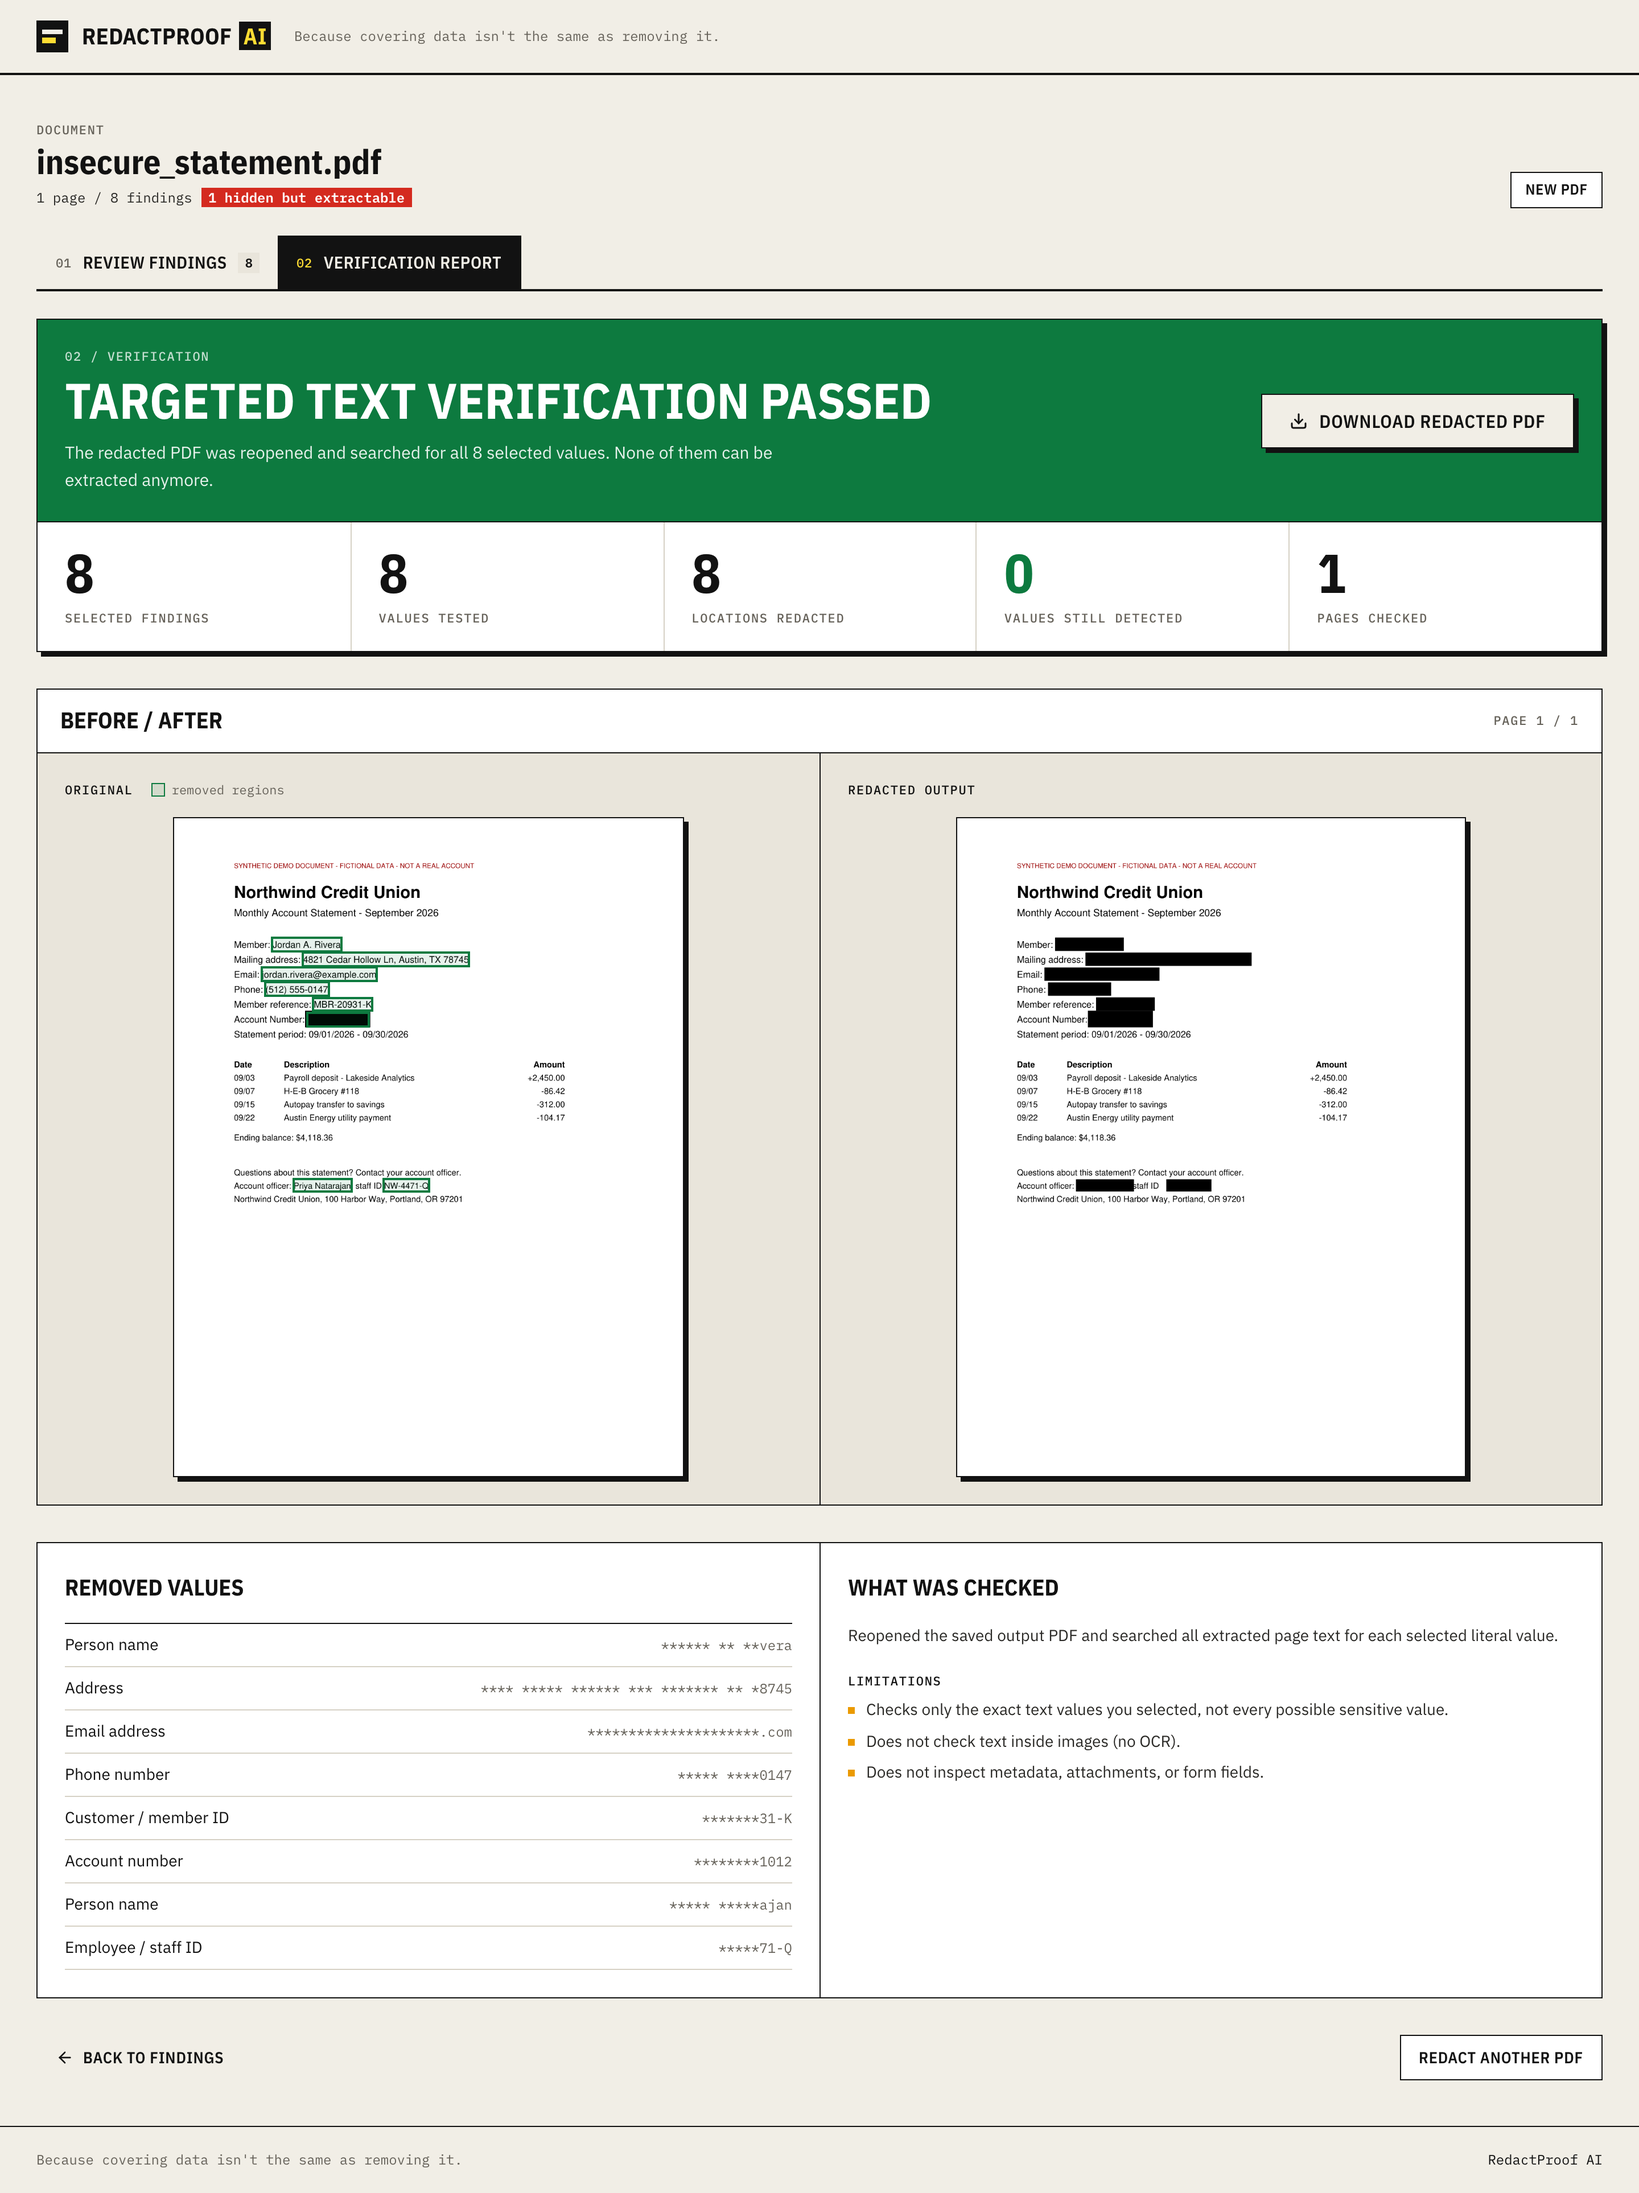
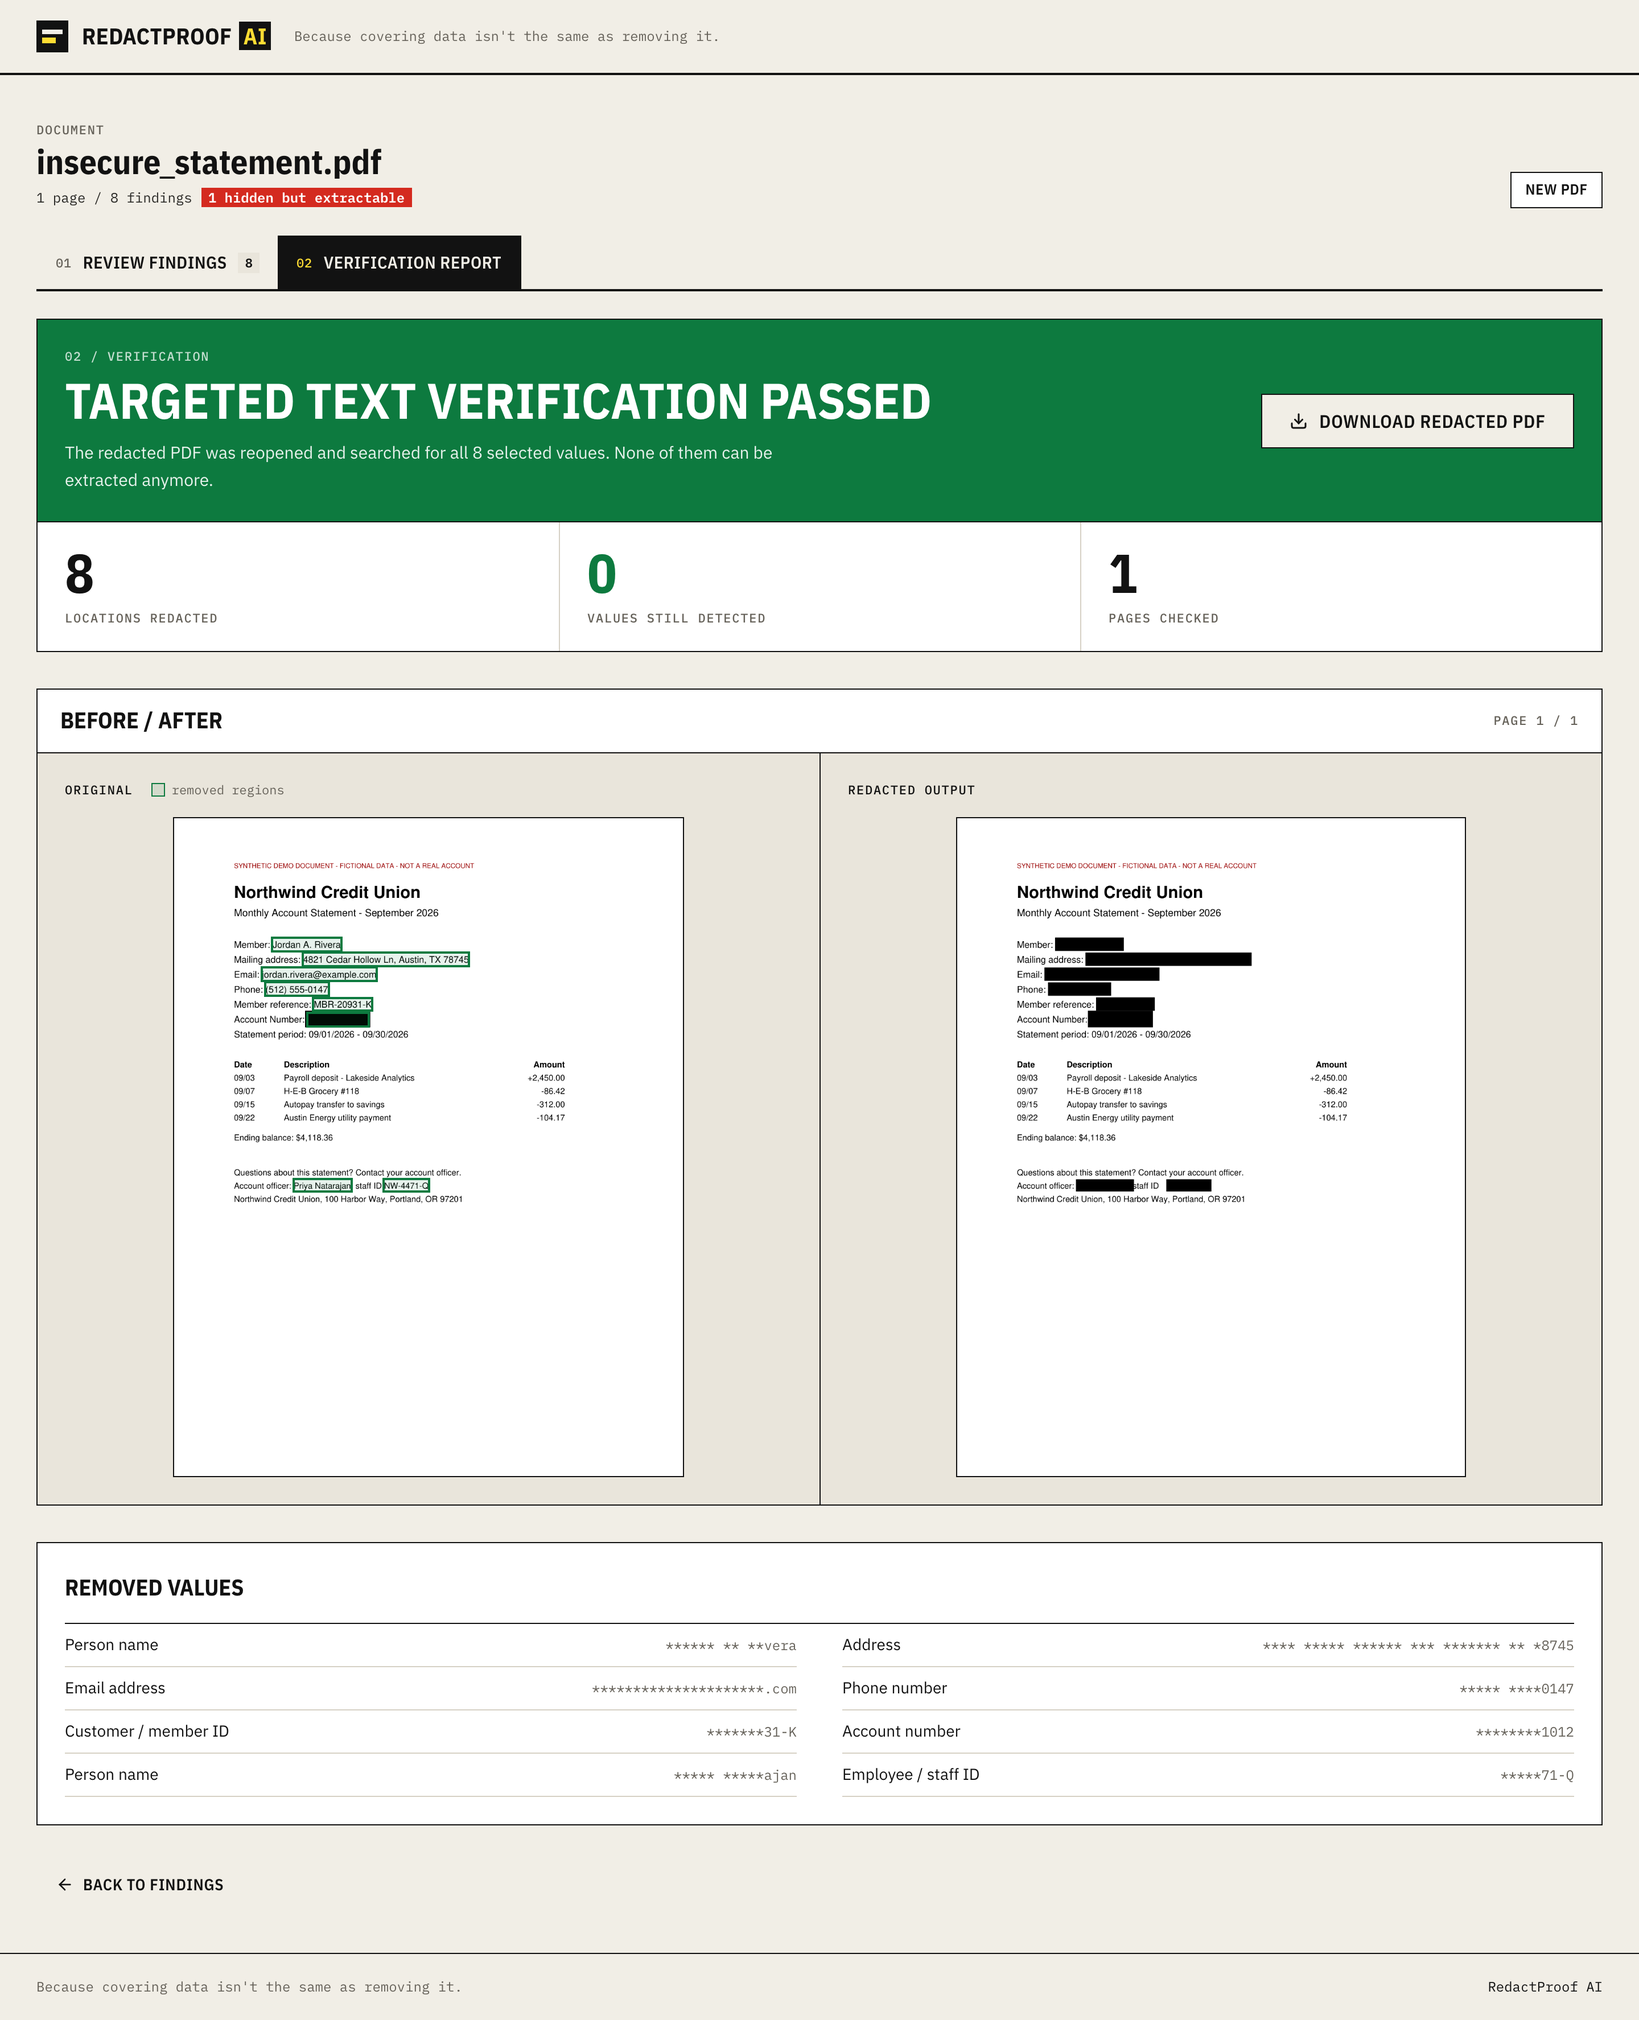
Simplify the verification report and remove drop shadows
- Remove the "What was checked" section, the "Redact another PDF" button,
  and the Selected findings / Values tested stats
- Removed values now spans the full width in two columns
- Remove all drop shadows (page previews, drop zone, report, download button)

diff --git a/frontend/src/components/VerificationReport.tsx b/frontend/src/components/VerificationReport.tsx
@@ -11,10 +11,9 @@ interface VerificationReportProps {
   page: number
   onPageChange: (page: number) => void
   onBack: () => void
-  onStartOver: () => void
 }
 
-export function VerificationReport({ analysis, result, page, onPageChange, onBack, onStartOver }: VerificationReportProps) {
+export function VerificationReport({ analysis, result, page, onPageChange, onBack }: VerificationReportProps) {
   const v = result.verification
   const passed = v.status === 'passed'
   const byId = new Map(analysis.findings.map((f) => [f.id, f]))
@@ -22,8 +21,6 @@ export function VerificationReport({ analysis, result, page, onPageChange, onBac
   const canDownload = !USE_MOCK && result.download_url !== ''
 
   const stats: [string, number, string?][] = [
-    ['Selected findings', v.selected_findings],
-    ['Values tested', v.values_tested],
     ['Locations redacted', v.locations_redacted],
     ['Values still detected', v.values_still_detected, v.values_still_detected > 0 ? 'text-danger' : 'text-success'],
     ['Pages checked', v.pages_checked],
@@ -31,7 +28,7 @@ export function VerificationReport({ analysis, result, page, onPageChange, onBac
 
   return (
     <div className="space-y-8">
-      <section aria-label="Verification status" className="border-[1.5px] border-ink bg-surface shadow-hard">
+      <section aria-label="Verification status" className="border-[1.5px] border-ink bg-surface">
         <div className={cx('flex flex-col gap-6 px-6 py-6 md:flex-row md:items-center md:justify-between', passed ? 'bg-success text-white' : 'bg-danger text-white')}>
           <div role={passed ? 'status' : 'alert'}>
             <p className="tag text-white/75">02 / Verification</p>
@@ -54,7 +51,7 @@ export function VerificationReport({ analysis, result, page, onPageChange, onBac
                 download
                 className={cx(
                   'inline-flex h-12 items-center justify-center gap-2.5 border-[1.5px] px-6 font-display text-[16px] font-semibold tracking-[0.03em] uppercase transition-colors',
-                  passed ? 'border-ink bg-paper text-ink shadow-hard hover:bg-marker' : 'border-white bg-transparent text-white hover:bg-white/15',
+                  passed ? 'border-ink bg-paper text-ink hover:bg-marker' : 'border-white bg-transparent text-white hover:bg-white/15',
                 )}
               >
                 <Download className="size-4" strokeWidth={2.25} aria-hidden />
@@ -81,9 +78,9 @@ export function VerificationReport({ analysis, result, page, onPageChange, onBac
           </ul>
         )}
 
-        <dl className="grid grid-cols-2 border-t-[1.5px] border-ink sm:grid-cols-5">
+        <dl className="grid border-t-[1.5px] border-ink sm:grid-cols-3">
           {stats.map(([label, value, tone], i) => (
-            <div key={label} className={cx('flex flex-col-reverse px-6 py-5', i > 0 && 'sm:border-l sm:border-line', 'max-sm:border-b max-sm:border-line')}>
+            <div key={label} className={cx('flex flex-col-reverse px-6 py-5', i > 0 && 'border-line max-sm:border-t sm:border-l')}>
               <dt className="tag mt-2 text-muted">{label}</dt>
               <dd className={cx('font-display text-[48px] leading-none font-bold tabular-nums', tone ?? 'text-ink')}>{value}</dd>
             </div>
@@ -93,10 +90,10 @@ export function VerificationReport({ analysis, result, page, onPageChange, onBac
 
       <BeforeAfterViewer analysis={analysis} result={result} page={page} onPageChange={onPageChange} />
 
-      <div className="grid border-[1.5px] border-ink bg-surface lg:grid-cols-2">
+      <div className="panel">
         <section aria-label="Removed values" className="p-6">
           <h3 className="font-display text-[20px] font-bold text-ink uppercase">Removed values</h3>
-          <ul className="mt-4 border-t-[1.5px] border-ink">
+          <ul className="mt-4 grid border-t-[1.5px] border-ink md:grid-cols-2 md:gap-x-10">
             {redacted.map((f) => (
               <li key={f.id} className="flex items-center justify-between gap-2 border-b border-line py-2 text-[14px]">
                 <span className="truncate text-ink">{TYPE_LABELS[f.type]}</span>
@@ -109,27 +106,11 @@ export function VerificationReport({ analysis, result, page, onPageChange, onBac
           </ul>
         </section>
 
-        <section aria-label="Verification method and limitations" className="border-ink p-6 max-lg:border-t-[1.5px] lg:border-l-[1.5px]">
-          <h3 className="font-display text-[20px] font-bold text-ink uppercase">What was checked</h3>
-          <p className="mt-4 text-[14px] leading-relaxed text-body">{v.method}</p>
-          <h4 className="tag mt-5 text-ink">Limitations</h4>
-          <ul className="mt-2 space-y-2 text-[14px] leading-snug text-body">
-            {v.limitations.map((l) => (
-              <li key={l} className="flex gap-2.5">
-                <span className="mt-[7px] size-1.5 shrink-0 bg-warning" aria-hidden />
-                {l}
-              </li>
-            ))}
-          </ul>
-        </section>
       </div>
 
-      <div className="flex flex-wrap justify-between gap-3">
+      <div>
         <Button variant="ghost" onClick={onBack} icon={<ArrowLeft className="size-4" aria-hidden />}>
           Back to findings
-        </Button>
-        <Button variant="secondary" onClick={onStartOver}>
-          Redact another PDF
         </Button>
       </div>
     </div>

diff --git a/frontend/src/components/DocumentViewer.tsx b/frontend/src/components/DocumentViewer.tsx
@@ -42,10 +42,10 @@ export function DocumentViewer({
 
   return (
     <div
-      className="relative mx-auto overflow-hidden border-[1.5px] border-ink bg-white shadow-hard"
+      className="relative mx-auto overflow-hidden border-[1.5px] border-ink bg-white"
       style={{
         aspectRatio: `${page.width} / ${page.height}`,
-        width: `min(calc(100% - 4px), max(320px, calc((100vh - ${reservedHeight}px) * ${ratio})))`,
+        width: `min(100%, max(320px, calc((100vh - ${reservedHeight}px) * ${ratio})))`,
       }}
     >
       {!failed && (

diff --git a/frontend/src/components/UploadZone.tsx b/frontend/src/components/UploadZone.tsx
@@ -64,7 +64,7 @@ export function UploadZone({ analyzing, error, onFile, onCancel }: UploadZonePro
           onDragLeave={() => setDragging(false)}
           onDrop={onDrop}
           className={cx(
-            'flex min-h-[280px] flex-col justify-center border-2 border-dashed border-ink px-8 py-8 shadow-hard transition-colors',
+            'flex min-h-[280px] flex-col justify-center border-2 border-dashed border-ink px-8 py-8 transition-colors',
             dragging ? 'bg-marker' : 'bg-surface',
           )}
         >

diff --git a/frontend/src/components/Workspace.tsx b/frontend/src/components/Workspace.tsx
@@ -142,7 +142,6 @@ export function Workspace(props: WorkspaceProps) {
             page={page}
             onPageChange={setPage}
             onBack={() => onTabChange('review')}
-            onStartOver={onStartOver}
           />
         )}
       </div>

diff --git a/frontend/src/index.css b/frontend/src/index.css
@@ -49,9 +49,6 @@
   --color-success-ink: #0a6634;
   --color-success-soft: #dff0e5;
   --color-success-line: #9fd1b2;
-
-  --shadow-hard: 4px 4px 0 0 var(--color-ink);
-  --shadow-hard-sm: 2px 2px 0 0 var(--color-ink);
 }
 
 @layer base {

diff --git a/frontend/README.md b/frontend/README.md
@@ -40,13 +40,13 @@ src/
     FindingsSidebar      grouped findings, select all / per group, mask + reveal
     FindingCard          one finding: masked value, risk, sources, locations
     RedactionControls    Screen D: "Securely Redact Selected"
-    VerificationReport   Screen E: status, counts, limitations, download
+    VerificationReport   Screen E: status, counts, removed values, download
     BeforeAfterViewer    original vs redacted previews
 ```
 
 ## Theming
 
-All colors, fonts and shadows are design tokens in the `@theme` block of [src/index.css](src/index.css) (`paper`, `surface`, `ink`, `marker`, `danger`, `warning`, `success`, …). Components only use those token names, so changing a value there re-themes the whole UI. Corners are square throughout by design.
+All colors and fonts are design tokens in the `@theme` block of [src/index.css](src/index.css) (`paper`, `surface`, `ink`, `marker`, `danger`, `warning`, `success`, …). Components only use those token names, so changing a value there re-themes the whole UI. Corners are square and there are no drop shadows, by design.
 
 Earlier designs are saved as git tags:
 
